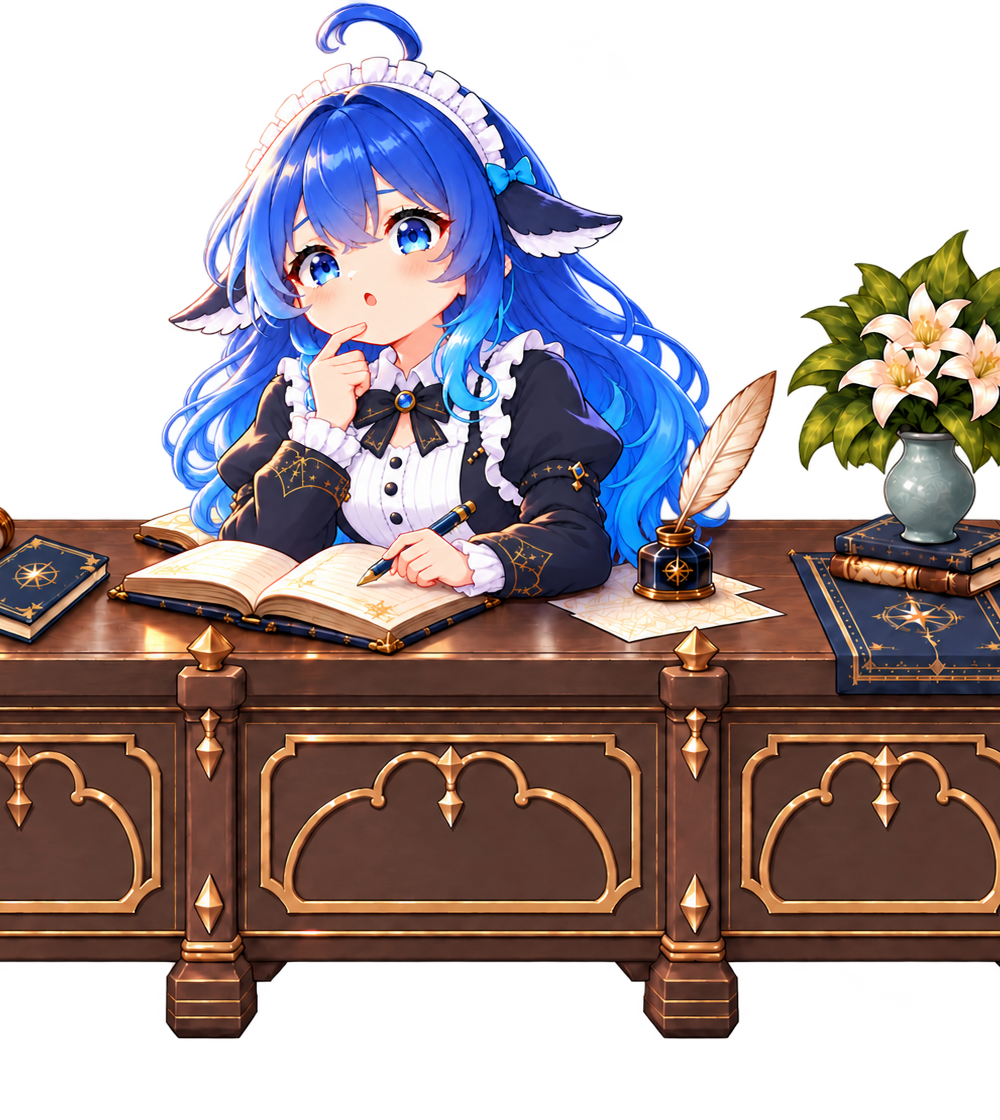
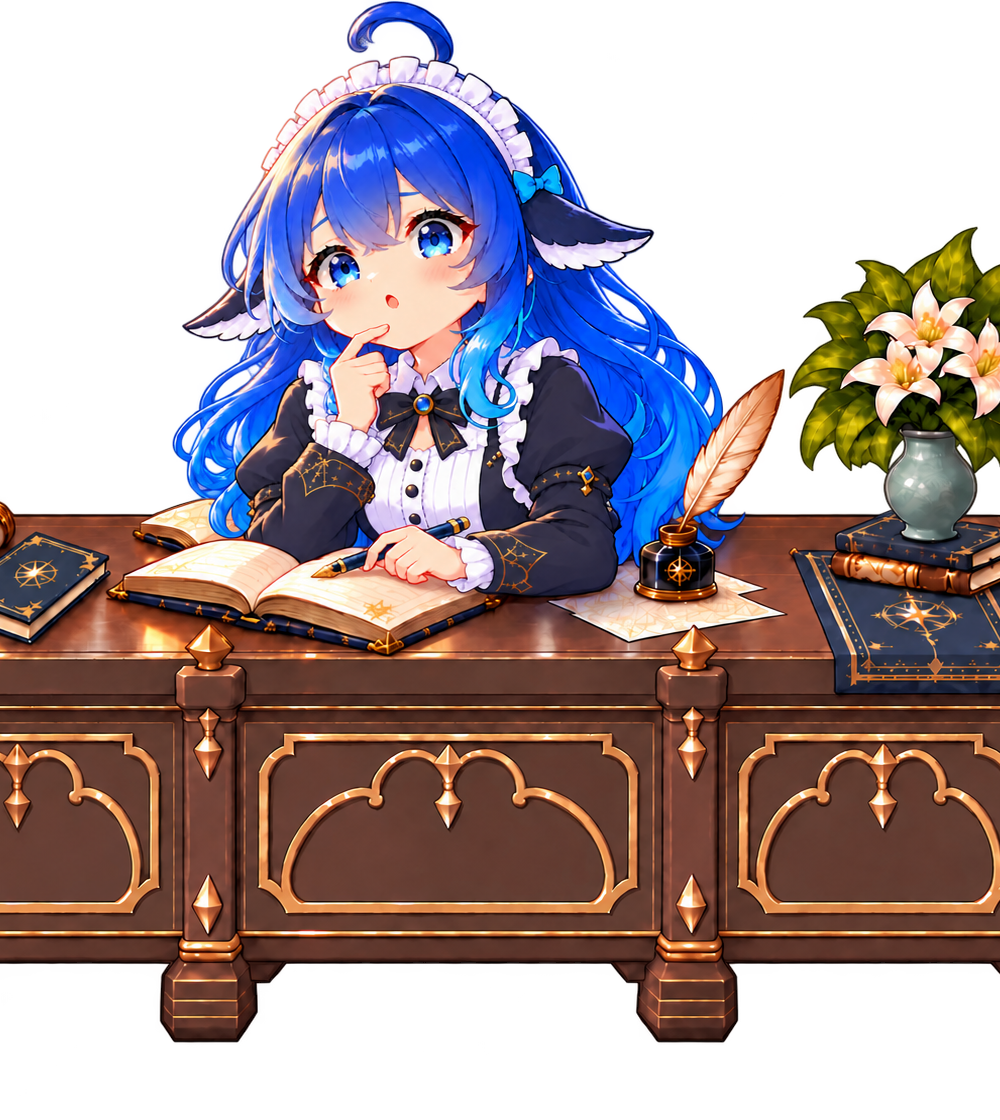
渐变缩短到 150ms；换上重画的好奇表情

Changed region(s): [[0.0, 0.0, 1.0, 0.9375]]

diff --git a/brand-override/client.js b/brand-override/client.js
@@ -381,14 +381,15 @@ window.__ModuleLoader__.load({
           var below = [];
           for (var prev = next.previousElementSibling; prev && prev.classList.contains('dsh-academy-pose'); prev = prev.previousElementSibling) below.push(prev);
           /* The old pose fades out too (otherwise it shows through the new pose's
-           * transparent parts and pops off at the end), but starts late: by then
-           * the new pose covers the desk, so the shared desk never dims. */
+           * transparent parts and pops off at the end), starting a beat later so
+           * the shared desk barely dims. Both fades are short (150 ms) because
+           * while two poses overlap the hands and hair show double. */
           window.setTimeout(function () {
             below.forEach(function (node) { node.style.opacity = '0'; });
-          }, 200);
+          }, 70);
           window.setTimeout(function () {
             below.forEach(function (node) { node.remove(); });
-          }, 520);
+          }, 300);
         });
       };
       Promise.all(images.map(function (img) { return img.decode ? img.decode().catch(function () {}) : null; })).then(reveal);

diff --git a/brand-override/skin.css b/brand-override/skin.css
@@ -477,7 +477,7 @@ $SKIN [data-dsh-academy-desk-back] .dsh-academy-pose {
   position: absolute;
   inset: 0;
   pointer-events: none;
-  transition: opacity 280ms ease;
+  transition: opacity 150ms ease; /* 短：两层重叠时手和头发会出现重影 */
 }
 $SKIN [data-dsh-academy-rail][data-combo] .dsh-academy-character,
 $SKIN [data-dsh-academy-rail][data-combo] .dsh-academy-hair,

diff --git a/docs/修改记录.md b/docs/修改记录.md
@@ -209,6 +209,14 @@ osascript -e 'quit app "DeepSeek Harness"' && open -a "DeepSeek Harness"
 
 ## 五、版本记录
 
+### 2026-10-04 · 渐变缩短到 150ms；换上重画的好奇表情
+
+- 备份：`backup/渐变150ms与好奇v2前-20261004-051705`。
+- 用户反馈切换有重影：交叉渐变时新旧两张同时可见，不同的地方（手、表情、偏左的好奇、默认表情缩放后桌子边缘差约 7）会出现两份；上一版旧画面晚 200ms 才淡出，重叠时间更长。改为两层都 150ms，旧画面晚 70ms 开始淡出，300ms 后删除。
+- 好奇表情：GPT 以 round14 修正后的默认表情为底重画（`<素材目录>/round14/combo-curious-v2.png`），头部和其他三张偏差 2–4px（原来约 24px）；桌子没有缩放或移动，但重画后细节略有不同（桌子正面平均差约 15）。已重新生成 `assets/combo/` 的好奇合成图、缩略图和头发条。
+- 注意：窗口在后台（document.visibilityState 为 hidden）时 Chromium 冻结过渡，调试端口读到的 opacity 会停在 0，截图会强制渲染、画面正常，不是 bug。
+- 验证：build + verify 72/72，包体 5.70 MB；截图确认好奇表情和对话框、桌子都正常。
+
 ### 2026-10-04 · 合成图切换改为真正交叉渐变；桌子延伸到对话框下面；预解码
 
 - 切换：旧画面原来一直保持不透明，等新画面淡入完才删掉，新画面透明的地方会透出旧画面、结束时再突然消失（用户发现）。改为新画面淡入后 200ms 旧画面开始淡出（此时新画面已基本盖住书桌，书桌不会变暗），520ms 后删除。
